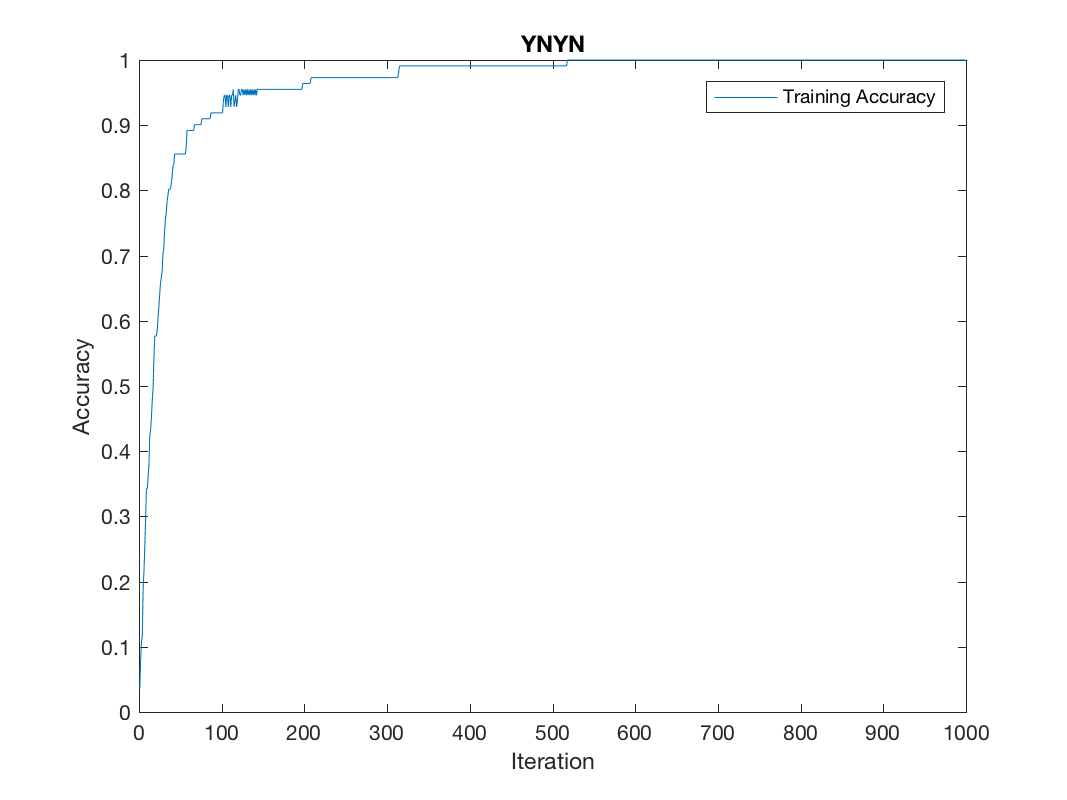
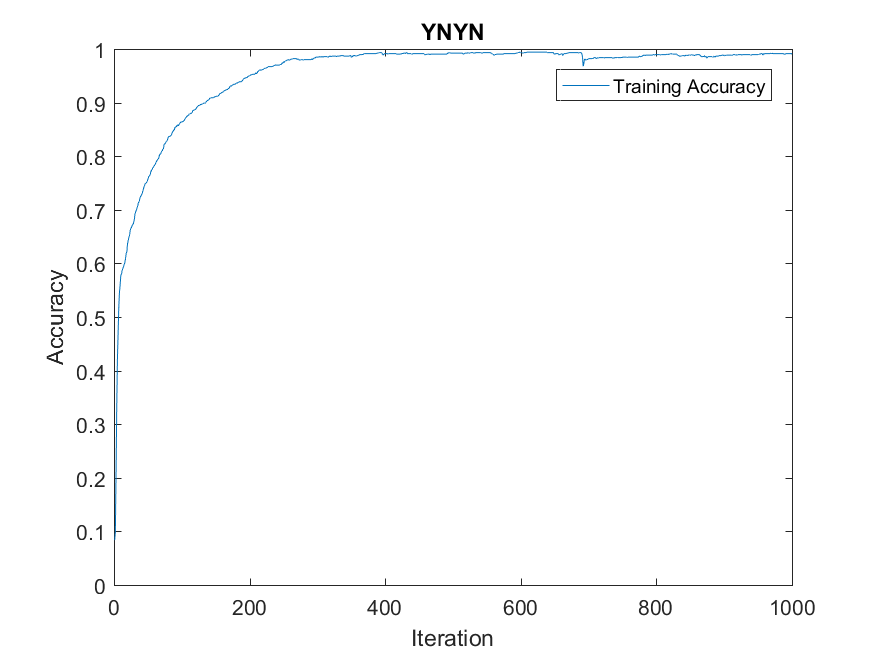
added new variation testing images

diff --git a/ANN/variation_tester.m b/ANN/variation_tester.m
@@ -1,86 +1,151 @@
 rng(0);
-data_selection_type = 0;
 image_size = 40;
-[num_classes,training_fields,training_classes,testing_fields,testing_classes] = load_and_shuffle_data(image_size,data_selection_type);
+S = 9;
+%[num_classes,training_fields,training_classes,validation_fields,validation_classes,testing_fields,testing_classes] = load_and_shuffle_data(image_size);
+[~,classes,fields] = load_image_data(image_size,image_size);
 
 ann = ANN;
 
 % BASELINE
 ann = set_control_flow_vals(ann,[0,0,1,0]);
-[testing_accuracy,training_accuracy] = train_ANN(ann,training_fields,training_classes,testing_fields,testing_classes);
-plot_training_accuracy(ann,testing_accuracy,training_accuracy);
+rng(0);
+[ann,s_training_accuracies,s_validation_accuracies,s_testing_accuracies] = cross_validate_ANN(ann,S,fields,classes);
+mean_testing_accuracy = mean(s_testing_accuracies(:,2));
+mean_training_accuracies = mean(s_training_accuracies(:,2:end));
+mean_validation_accuracy = mean(s_validation_accuracies(:,2));
+plot_training_accuracy(ann,mean_testing_accuracy,[(1:1000)' mean_training_accuracies'],mean_validation_accuracy);
 
 % NNNN
 ann = set_control_flow_vals(ann,[0,0,0,0]);
-[testing_accuracy,training_accuracy] = train_ANN(ann,training_fields,training_classes,testing_fields,testing_classes);
-plot_training_accuracy(ann,testing_accuracy,training_accuracy);
+rng(0);
+[ann,s_training_accuracies,s_validation_accuracies,s_testing_accuracies] = cross_validate_ANN(ann,S,fields,classes);
+mean_testing_accuracy = mean(s_testing_accuracies(:,2));
+mean_training_accuracies = mean(s_training_accuracies(:,2:end));
+mean_validation_accuracy = mean(s_validation_accuracies(:,2));
+plot_training_accuracy(ann,mean_testing_accuracy,[(1:1000)' mean_training_accuracies'],mean_validation_accuracy);
 
 % YNNN
 ann = set_control_flow_vals(ann,[1,0,0,0]);
-[testing_accuracy,training_accuracy] = train_ANN(ann,training_fields,training_classes,testing_fields,testing_classes);
-plot_training_accuracy(ann,testing_accuracy,training_accuracy);
+rng(0);
+[ann,s_training_accuracies,s_validation_accuracies,s_testing_accuracies] = cross_validate_ANN(ann,S,fields,classes);
+mean_testing_accuracy = mean(s_testing_accuracies(:,2));
+mean_training_accuracies = mean(s_training_accuracies(:,2:end));
+mean_validation_accuracy = mean(s_validation_accuracies(:,2));
+plot_training_accuracy(ann,mean_testing_accuracy,[(1:1000)' mean_training_accuracies'],mean_validation_accuracy);
 
 % NYNN
 ann = set_control_flow_vals(ann,[0,1,0,0]);
-[testing_accuracy,training_accuracy] = train_ANN(ann,training_fields,training_classes,testing_fields,testing_classes);
-plot_training_accuracy(ann,testing_accuracy,training_accuracy);
+rng(0);
+[ann,s_training_accuracies,s_validation_accuracies,s_testing_accuracies] = cross_validate_ANN(ann,S,fields,classes);
+mean_testing_accuracy = mean(s_testing_accuracies(:,2));
+mean_training_accuracies = mean(s_training_accuracies(:,2:end));
+mean_validation_accuracy = mean(s_validation_accuracies(:,2));
+plot_training_accuracy(ann,mean_testing_accuracy,[(1:1000)' mean_training_accuracies'],mean_validation_accuracy);
 
 % NNNY
 ann = set_control_flow_vals(ann,[0,0,0,1]);
-[testing_accuracy,training_accuracy] = train_ANN(ann,training_fields,training_classes,testing_fields,testing_classes);
-plot_training_accuracy(ann,testing_accuracy,training_accuracy);
+rng(0);
+[ann,s_training_accuracies,s_validation_accuracies,s_testing_accuracies] = cross_validate_ANN(ann,S,fields,classes);
+mean_testing_accuracy = mean(s_testing_accuracies(:,2));
+mean_training_accuracies = mean(s_training_accuracies(:,2:end));
+mean_validation_accuracy = mean(s_validation_accuracies(:,2));
+plot_training_accuracy(ann,mean_testing_accuracy,[(1:1000)' mean_training_accuracies'],mean_validation_accuracy);
 
 % YYNN
 ann = set_control_flow_vals(ann,[1,1,0,0]);
-[testing_accuracy,training_accuracy] = train_ANN(ann,training_fields,training_classes,testing_fields,testing_classes);
-plot_training_accuracy(ann,testing_accuracy,training_accuracy);
+rng(0);
+[ann,s_training_accuracies,s_validation_accuracies,s_testing_accuracies] = cross_validate_ANN(ann,S,fields,classes);
+mean_testing_accuracy = mean(s_testing_accuracies(:,2));
+mean_training_accuracies = mean(s_training_accuracies(:,2:end));
+mean_validation_accuracy = mean(s_validation_accuracies(:,2));
+plot_training_accuracy(ann,mean_testing_accuracy,[(1:1000)' mean_training_accuracies'],mean_validation_accuracy);
 
 % YNYN
 ann = set_control_flow_vals(ann,[1,0,1,0]);
-[testing_accuracy,training_accuracy] = train_ANN(ann,training_fields,training_classes,testing_fields,testing_classes);
-plot_training_accuracy(ann,testing_accuracy,training_accuracy);
+rng(0);
+[ann,s_training_accuracies,s_validation_accuracies,s_testing_accuracies] = cross_validate_ANN(ann,S,fields,classes);
+mean_testing_accuracy = mean(s_testing_accuracies(:,2));
+mean_training_accuracies = mean(s_training_accuracies(:,2:end));
+mean_validation_accuracy = mean(s_validation_accuracies(:,2));
+plot_training_accuracy(ann,mean_testing_accuracy,[(1:1000)' mean_training_accuracies'],mean_validation_accuracy);
 
 % YNNY
 ann = set_control_flow_vals(ann,[1,0,0,1]);
-[testing_accuracy,training_accuracy] = train_ANN(ann,training_fields,training_classes,testing_fields,testing_classes);
-plot_training_accuracy(ann,testing_accuracy,training_accuracy);
+rng(0);
+[ann,s_training_accuracies,s_validation_accuracies,s_testing_accuracies] = cross_validate_ANN(ann,S,fields,classes);
+mean_testing_accuracy = mean(s_testing_accuracies(:,2));
+mean_training_accuracies = mean(s_training_accuracies(:,2:end));
+mean_validation_accuracy = mean(s_validation_accuracies(:,2));
+plot_training_accuracy(ann,mean_testing_accuracy,[(1:1000)' mean_training_accuracies'],mean_validation_accuracy);
 
 % NYYN
 ann = set_control_flow_vals(ann,[0,1,1,0]);
-[testing_accuracy,training_accuracy] = train_ANN(ann,training_fields,training_classes,testing_fields,testing_classes);
-plot_training_accuracy(ann,testing_accuracy,training_accuracy);
+rng(0);
+[ann,s_training_accuracies,s_validation_accuracies,s_testing_accuracies] = cross_validate_ANN(ann,S,fields,classes);
+mean_testing_accuracy = mean(s_testing_accuracies(:,2));
+mean_training_accuracies = mean(s_training_accuracies(:,2:end));
+mean_validation_accuracy = mean(s_validation_accuracies(:,2));
+plot_training_accuracy(ann,mean_testing_accuracy,[(1:1000)' mean_training_accuracies'],mean_validation_accuracy);
 
 % NYNY
 ann = set_control_flow_vals(ann,[0,1,0,1]);
-[testing_accuracy,training_accuracy] = train_ANN(ann,training_fields,training_classes,testing_fields,testing_classes);
-plot_training_accuracy(ann,testing_accuracy,training_accuracy);
+rng(0);
+[ann,s_training_accuracies,s_validation_accuracies,s_testing_accuracies] = cross_validate_ANN(ann,S,fields,classes);
+mean_testing_accuracy = mean(s_testing_accuracies(:,2));
+mean_training_accuracies = mean(s_training_accuracies(:,2:end));
+mean_validation_accuracy = mean(s_validation_accuracies(:,2));
+plot_training_accuracy(ann,mean_testing_accuracy,[(1:1000)' mean_training_accuracies'],mean_validation_accuracy);
 
 % NNYY
 ann = set_control_flow_vals(ann,[0,0,1,1]);
-[testing_accuracy,training_accuracy] = train_ANN(ann,training_fields,training_classes,testing_fields,testing_classes);
-plot_training_accuracy(ann,testing_accuracy,training_accuracy);
+rng(0);
+[ann,s_training_accuracies,s_validation_accuracies,s_testing_accuracies] = cross_validate_ANN(ann,S,fields,classes);
+mean_testing_accuracy = mean(s_testing_accuracies(:,2));
+mean_training_accuracies = mean(s_training_accuracies(:,2:end));
+mean_validation_accuracy = mean(s_validation_accuracies(:,2));
+plot_training_accuracy(ann,mean_testing_accuracy,[(1:1000)' mean_training_accuracies'],mean_validation_accuracy);
 
 % YYYN
 ann = set_control_flow_vals(ann,[1,1,1,0]);
-[testing_accuracy,training_accuracy] = train_ANN(ann,training_fields,training_classes,testing_fields,testing_classes);
-plot_training_accuracy(ann,testing_accuracy,training_accuracy);
+rng(0);
+[ann,s_training_accuracies,s_validation_accuracies,s_testing_accuracies] = cross_validate_ANN(ann,S,fields,classes);
+mean_testing_accuracy = mean(s_testing_accuracies(:,2));
+mean_training_accuracies = mean(s_training_accuracies(:,2:end));
+mean_validation_accuracy = mean(s_validation_accuracies(:,2));
+plot_training_accuracy(ann,mean_testing_accuracy,[(1:1000)' mean_training_accuracies'],mean_validation_accuracy);
 
 % YYNY
 ann = set_control_flow_vals(ann,[1,1,0,1]);
-[testing_accuracy,training_accuracy] = train_ANN(ann,training_fields,training_classes,testing_fields,testing_classes);
-plot_training_accuracy(ann,testing_accuracy,training_accuracy);
+rng(0);
+[ann,s_training_accuracies,s_validation_accuracies,s_testing_accuracies] = cross_validate_ANN(ann,S,fields,classes);
+mean_testing_accuracy = mean(s_testing_accuracies(:,2));
+mean_training_accuracies = mean(s_training_accuracies(:,2:end));
+mean_validation_accuracy = mean(s_validation_accuracies(:,2));
+plot_training_accuracy(ann,mean_testing_accuracy,[(1:1000)' mean_training_accuracies'],mean_validation_accuracy);
 
 % YNYY
 ann = set_control_flow_vals(ann,[1,0,1,1]);
-[testing_accuracy,training_accuracy] = train_ANN(ann,training_fields,training_classes,testing_fields,testing_classes);
-plot_training_accuracy(ann,testing_accuracy,training_accuracy);
+rng(0);
+[ann,s_training_accuracies,s_validation_accuracies,s_testing_accuracies] = cross_validate_ANN(ann,S,fields,classes);
+mean_testing_accuracy = mean(s_testing_accuracies(:,2));
+mean_training_accuracies = mean(s_training_accuracies(:,2:end));
+mean_validation_accuracy = mean(s_validation_accuracies(:,2));
+plot_training_accuracy(ann,mean_testing_accuracy,[(1:1000)' mean_training_accuracies'],mean_validation_accuracy);
 
 % NYYY
 ann = set_control_flow_vals(ann,[0,1,1,1]);
-[testing_accuracy,training_accuracy] = train_ANN(ann,training_fields,training_classes,testing_fields,testing_classes);
-plot_training_accuracy(ann,testing_accuracy,training_accuracy);
+rng(0);
+[ann,s_training_accuracies,s_validation_accuracies,s_testing_accuracies] = cross_validate_ANN(ann,S,fields,classes);
+mean_testing_accuracy = mean(s_testing_accuracies(:,2));
+mean_training_accuracies = mean(s_training_accuracies(:,2:end));
+mean_validation_accuracy = mean(s_validation_accuracies(:,2));
+plot_training_accuracy(ann,mean_testing_accuracy,[(1:1000)' mean_training_accuracies'],mean_validation_accuracy);
 
 % YYYY
 ann = set_control_flow_vals(ann,[1,1,1,1]);
-[testing_accuracy,training_accuracy] = train_ANN(ann,training_fields,training_classes,testing_fields,testing_classes);
-plot_training_accuracy(ann,testing_accuracy,training_accuracy);
+rng(0);
+[ann,s_training_accuracies,s_validation_accuracies,s_testing_accuracies] = cross_validate_ANN(ann,S,fields,classes);
+mean_testing_accuracy = mean(s_testing_accuracies(:,2));
+mean_training_accuracies = mean(s_training_accuracies(:,2:end));
+mean_validation_accuracy = mean(s_validation_accuracies(:,2));
+plot_training_accuracy(ann,mean_testing_accuracy,[(1:1000)' mean_training_accuracies'],mean_validation_accuracy);

diff --git a/ANN/ANN.m b/ANN/ANN.m
@@ -174,7 +174,7 @@ classdef ANN
             num_correct = numel(find(~(testing_classes - testing_o)));
             testing_accuracy = num_correct/num_testing_rows;
         end
-        function [] = plot_training_accuracy( ann,testing_accuracy,training_accuracy )
+        function [] = plot_training_accuracy( ann,testing_accuracy,training_accuracy,validation_accuracy )
             fig = figure();
             plot(training_accuracy(:,1), training_accuracy(:,2));
             legend('Training Accuracy');
@@ -185,12 +185,22 @@ classdef ANN
             saveas(fig,sprintf('../Latex/accuracy_imgs/%s_training_accuracy.png',c_flow_str));
             
             % The following print is for the latex file
-            fprintf('\\testingAccuracyTableAndPlot{%s}{%s}{%s}{%s}{%f}\n',...
-                 ANN.binary_to_str(ann.should_add_bias_to_input),...
-                 ANN.binary_to_str(ann.should_add_bias_to_hidden),...
-                 ANN.binary_to_str(ann.should_std_data),...
-                 ANN.binary_to_str(ann.should_perform_PCA),...
-                 testing_accuracy);
+            if nargin == 4
+                fprintf('\\testingValidationAccuracyTableAndPlot{%s}{%s}{%s}{%s}{%f}{%f}\n',...
+                    ANN.binary_to_str(ann.should_add_bias_to_input),...
+                    ANN.binary_to_str(ann.should_add_bias_to_hidden),...
+                    ANN.binary_to_str(ann.should_std_data),...
+                    ANN.binary_to_str(ann.should_perform_PCA),...
+                    testing_accuracy, validation_accuracy);
+            else
+                fprintf('\\testingAccuracyTableAndPlot{%s}{%s}{%s}{%s}{%f}\n',...
+                    ANN.binary_to_str(ann.should_add_bias_to_input),...
+                    ANN.binary_to_str(ann.should_add_bias_to_hidden),...
+                    ANN.binary_to_str(ann.should_std_data),...
+                    ANN.binary_to_str(ann.should_perform_PCA),...
+                    testing_accuracy);
+            end
+
         end
         function [ ann,s_training_accuracies,s_validation_accuracies,s_testing_accuracies ] = cross_validate_ANN( ann,S,fields,classes )
             num_data_rows = size(fields,1);
